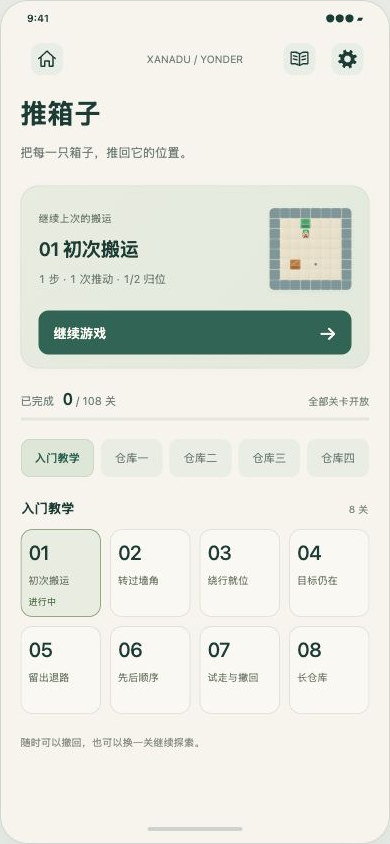
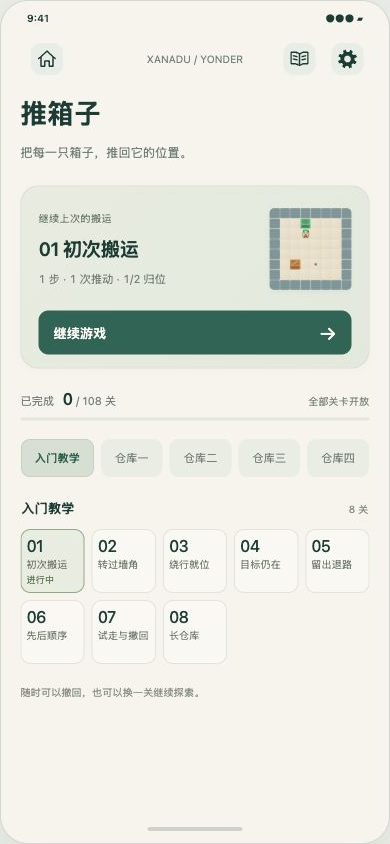
docs: compact sokoban level selection buttons

diff --git a/docs/prototypes/sokoban/style.css b/docs/prototypes/sokoban/style.css
@@ -1,4 +1,4 @@
 :root{font-family:-apple-system,BlinkMacSystemFont,"PingFang SC","Microsoft YaHei",sans-serif;color:#173d35;background:#e9ece5;font-synthesis:none}*{box-sizing:border-box}body{margin:0}button{font:inherit;cursor:pointer;color:inherit;border:0;touch-action:manipulation}button:focus-visible{outline:3px solid #c18c3e;outline-offset:3px}button:disabled{opacity:.35;cursor:default}button:hover:not(:disabled){filter:brightness(.97)}[hidden]{display:none!important}.preview{max-width:780px;margin:auto;padding:36px 28px 24px}.preview-header{display:flex;justify-content:space-between;align-items:center;gap:20px}.eyebrow{font-size:10px;font-weight:700;letter-spacing:2px;margin:0 0 10px;color:#6f8175}.preview h1{font-size:24px;font-weight:600;margin:0;letter-spacing:-.3px}.prototype-tag{white-space:nowrap;border:1px solid #cbd4c9;border-radius:20px;padding:9px 12px;font-size:11px}.preview-controls{display:flex;justify-content:center;margin:26px 0 22px}.segmented{display:flex;padding:4px;background:#dce3d9;border-radius:12px;gap:3px}.segmented button{background:transparent;border-radius:8px;min-height:44px;padding:0 15px;font-size:12px}.segmented button[aria-pressed=true]{background:#f9f8f1;box-shadow:0 1px 5px #173d3510}.phone{height:844px;width:390px;max-width:100%;margin:auto;border:1px solid #d4d8c9;border-radius:28px;box-shadow:0 14px 35px #173d3512;background:#f6f4ec;overflow:hidden;display:flex;flex-direction:column;position:relative;container-type:inline-size}.safe-top{height:30px;flex-shrink:0;display:flex;align-items:center;justify-content:space-between;padding:4px 26px 0;font-size:10px;font-weight:600}.nav{height:63px;position:relative;flex-shrink:0}.nav-button{position:absolute;top:6px;width:44px;height:44px;padding:6px;background:transparent;display:flex;align-items:center;justify-content:center}.nav-button>span{display:flex;align-items:center;justify-content:center;width:32px;height:32px;border-radius:10px;background:#e7ede4}.nav-button svg{width:20px;height:20px}.nav-button.home{left:calc(7.778% - 6px)}.nav-button.book{right:calc(5% + 48px)}.nav-button.settings{right:5%}.nav-brand{position:absolute;left:50%;top:12px;transform:translateX(-50%);white-space:nowrap;font-size:10.3px;font-weight:400;line-height:32px;color:#718179}.game-heading{padding:0 19.5px 9px;flex-shrink:0}.game-heading h2{font-size:26.5px;line-height:1.45;font-weight:700;letter-spacing:0;margin:0}.game-page{display:flex;flex-direction:column;flex:1;min-height:0}.game-info{display:flex;align-items:center;gap:12px;margin:0 19.5px 8px;min-height:45px;flex-shrink:0;border-bottom:1px solid #dce2d6;font-size:10px;color:#718179;white-space:nowrap}.level-link{min-height:44px;padding:0;display:flex;align-items:center;gap:6px;background:transparent;color:#173d35;font-size:12px;margin-right:auto;min-width:0;flex:1}.level-link [data-label=level]{overflow:hidden;text-overflow:ellipsis;white-space:nowrap}.stat,.chevron{flex-shrink:0}.chevron{width:5px;height:5px;border-right:1.3px solid currentColor;border-bottom:1.3px solid currentColor;transform:rotate(45deg);margin-top:-3px}.stat b{font-weight:500;font-size:14px;font-variant-numeric:tabular-nums;color:#173d35}.board-area{margin:0 19.5px;flex:1;min-height:0;position:relative;overflow:hidden;user-select:none;border-radius:15px;background:#ebeee2;box-shadow:inset 0 0 0 1px #dce2d687}.board{display:grid;position:absolute;left:50%;top:50%;transform:translate(-50%,-50%);background:#e9e0ca;overflow:hidden;border-radius:5px}.tile{position:relative;background:#e8ddc4;overflow:visible}.tile.floor{box-shadow:inset 0 0 0 .5px #bcae8a27;background:linear-gradient(145deg,#eee5d0,#e4dac2)}.tile img{position:absolute;inset:0;width:100%;height:100%;object-fit:contain;pointer-events:none}.tile.goal:after{content:"";position:absolute;width:24%;height:24%;left:38%;top:38%;border-radius:4px;transform:rotate(45deg);background:#789667;box-shadow:0 0 0 3px #8fa57c27}.tile.occupied:after{display:none}.tile .crate{z-index:2}.tile .player{z-index:3;transform:scale(.91)}.tile.occupied .crate{filter:saturate(.7)}.tile .goal-check{position:absolute;right:5%;bottom:3%;font-size:13px;line-height:1;z-index:4;color:white;background:#276653;border-radius:50%;padding:1px 2px}.board-toast{position:absolute;bottom:16px;left:50%;transform:translateX(-50%);width:max-content;max-width:calc(100% - 20px);padding:10px 14px;border-radius:12px;background:#173d35ed;color:#fffdf4;font-size:12px;line-height:1.6;pointer-events:none;z-index:5;display:none;text-align:center}.board-toast.visible{display:block}.operation-zone{display:grid;grid-template-columns:minmax(120px,1fr) 152px;gap:16px;margin:16px 19.5px 0;align-items:start;flex-shrink:0;height:152px}.left-controls{max-width:166px;height:152px}.game-actions{display:grid;grid-template-rows:48px 48px;gap:8px;padding-top:24px}.game-actions button{min-height:48px;border-radius:12px;background:#e7ede4;font-size:12px;display:flex;align-items:center;justify-content:center;gap:9px;padding:0 12px}.game-actions button>span:first-child{width:22px;height:22px;display:flex}.game-actions svg{width:22px;height:22px}.dpad{position:relative;width:152px;height:152px}.dpad button{position:absolute;display:flex;align-items:center;justify-content:center;background:#e7ede4;border-radius:13px;width:48px;height:48px;padding:0}.dpad [data-move=up]{left:52px;top:24px}.dpad [data-move=left]{left:0;top:52px}.dpad [data-move=right]{left:104px;top:52px}.dpad [data-move=down]{left:52px;top:80px}.arrow{width:11px;height:11px;border-top:2px solid #276653;border-right:2px solid #276653;display:block}.arrow.up{transform:rotate(-45deg);margin-top:4px}.arrow.right{transform:rotate(45deg);margin-right:4px}.arrow.down{transform:rotate(135deg);margin-bottom:4px}.arrow.left{transform:rotate(-135deg);margin-left:4px}.safe-bottom{height:28px;display:flex;align-items:center;justify-content:center;flex-shrink:0}.safe-bottom>span{display:block;width:95px;height:4px;border-radius:5px;background:#173d352f}
-.entry-page{flex:1;min-height:0;overflow-y:auto;overscroll-behavior:contain;padding:0 19.5px 12px;scrollbar-width:none}.entry-page::-webkit-scrollbar{display:none}.entry-intro{font-size:12px;color:#718179;line-height:1.8;margin:0 0 22px}.continue-card{display:block;width:100%;padding:17px 17px 13px;text-align:left;border:1px solid #d7dfcf;border-radius:18px;background:linear-gradient(130deg,#e8eddf,#e2e9dc);box-shadow:0 3px 12px #173d3504}.continue-content{display:flex;align-items:center;justify-content:space-between;gap:14px;min-height:91px}.continue-copy{display:flex;flex-direction:column;min-width:0}.card-eyebrow{font-size:10px;color:#6d806b;margin-bottom:10px;letter-spacing:.3px}.continue-copy strong{font-size:19px;font-weight:600;letter-spacing:-.4px;line-height:1.4;overflow:hidden;text-overflow:ellipsis;white-space:nowrap}.continue-stats{font-size:11px;color:#718179;margin-top:9px;font-variant-numeric:tabular-nums}.continue-cta{display:flex;align-items:center;justify-content:space-between;margin-top:16px;border-radius:10px;background:#276653;color:#fffdf4;height:44px;padding:0 15px;font-size:13px;font-weight:500}.continue-cta>span:last-child{font-size:20px;font-weight:400}.mini-board{display:grid;width:82px;height:82px;flex-shrink:0;border-radius:5px;overflow:hidden;box-shadow:0 2px 4px #173d350c}.mini-board .tile.goal:after{box-shadow:none;border-radius:1px}.mini-board .goal-check{display:none}.entry-progress{margin:21px 0 18px}.entry-progress>div:first-child{display:flex;align-items:baseline;justify-content:space-between;font-size:11px;color:#718179}.entry-progress b{color:#173d35;font-size:16px;font-weight:600;margin-left:5px}.progress-total{font-size:11px;color:#718179}.open-note{font-size:10px;color:#82907c}.progress-track{margin-top:9px;height:3px;border-radius:5px;background:#e1e6da;overflow:hidden}.progress-track>span{display:block;height:100%;width:0;background:#7b9d72;border-radius:5px}.chapter-tabs{display:flex;gap:7px;overflow-x:auto;scrollbar-width:none;white-space:nowrap;padding-bottom:2px}.chapter-tabs::-webkit-scrollbar{display:none}.chapter-tabs button{flex-shrink:0;background:#e9ede3;color:#718179;border:1px solid transparent;border-radius:9px;font-size:11px;padding:0 13px;min-height:38px}.chapter-tabs button[aria-selected=true]{color:#276653;background:#dce7d6;border-color:#cadac4;font-weight:600}.chapter-heading{display:flex;justify-content:space-between;align-items:baseline;margin:20px 1px 12px}.chapter-heading h3{font-size:13px;font-weight:600;margin:0}.chapter-heading>span{font-size:10px;color:#87917f}.level-grid{display:grid;grid-template-columns:repeat(4,minmax(0,1fr));gap:9px}.level-card{position:relative;min-width:0;height:88px;border-radius:12px;background:#f9f8f2;border:1px solid #e0e5d8;padding:11px 7px 8px;text-align:left;display:flex;flex-direction:column;justify-content:space-between}.level-card.is-active{border-color:#90aa82;background:#e8eddf}.level-card.is-complete{background:#eef2e8}.level-number{font-size:20px;font-weight:500;line-height:1.15;letter-spacing:-.5px}.level-name{display:block;font-size:10px;color:#75816e;white-space:nowrap;overflow:hidden;text-overflow:ellipsis}.level-state{font-size:9px;color:#52764b;height:12px;line-height:12px}.completed-check{position:absolute;top:10px;right:9px;font-size:10px;color:#638356}.entry-footnote{font-size:10px;color:#8b9485;margin:19px 0 2px;line-height:1.8}.catalog-notice{font-size:11px;line-height:1.7;color:#a16a44}.preview-state{max-width:390px;margin:17px auto 0;display:flex;align-items:center;justify-content:space-between;gap:14px;color:#7a877a;font-size:10px}.preview-state button{background:transparent;padding:6px 0;text-decoration:underline;text-underline-offset:4px;font-size:10px;flex-shrink:0}.preview-state>span{line-height:1.7}.preview footer{font-size:10px;color:#7a877a;text-align:center;margin:14px 0 0;line-height:1.7}.sr-only{position:absolute;width:1px;height:1px;padding:0;margin:-1px;overflow:hidden;clip:rect(0,0,0,0);white-space:nowrap;border:0}
-dialog{border:1px solid #d4d8c9;background:#f6f4ec;color:#173d35;border-radius:22px;padding:28px;max-width:360px;width:calc(100% - 32px);box-shadow:0 24px 80px #173d3545;max-height:calc(100dvh - 64px);overflow-y:auto}dialog.level-dialog{max-width:320px;padding:24px}.modal-close{position:absolute;right:9px;top:8px;width:44px;height:44px;background:transparent;font-size:25px}dialog::backdrop{background:#18352c66}dialog h2{font-size:22px;margin:8px 0 20px;font-weight:600}dialog p{font-size:13px;line-height:1.9;color:#64756b}dialog .fine{font-size:11px;color:#7b887d}.modal-chapters{margin:0 0 10px}.modal-chapters button{min-height:34px;padding:0 10px;font-size:10px}.modal-level-list{max-height:360px;overflow-y:auto;overscroll-behavior:contain;scrollbar-width:thin;scrollbar-color:#ccd8c2 transparent}.level-option{display:flex;align-items:center;justify-content:space-between;gap:8px;width:100%;text-align:left;background:#e7ede4;margin:8px 0;padding:13px 12px;border-radius:11px;min-height:52px}.level-option strong{font-size:12px;font-weight:500;display:block}.level-option small{display:block;font-size:10px;margin-top:5px;color:#75816f}.level-option .completed-label{font-size:10px;color:#52764b;white-space:nowrap}.level-option.is-active{box-shadow:inset 0 0 0 1px #9ab08f}.modal-links{display:flex;justify-content:space-between;align-items:center;margin-top:15px;border-top:1px solid #dde3d5;padding-top:11px}.modal-links button{background:none;padding:6px 0;font-size:11px;color:#52764b}.modal-links span{font-size:10px;color:#87917f}.confirm{min-height:44px;background:#276653;color:#fffdf4;border-radius:11px;width:100%;margin:12px 0 0;font-size:13px}.secondary-confirm{background:#e7ede4;color:#173d35;margin-top:8px}.modal-hint{padding:12px;background:#e7ede4;border-radius:12px}
-@container(max-width:350px){.operation-zone{margin-inline:12px;gap:12px}.game-info{gap:7px;margin-inline:14px;font-size:9px}.level-link{font-size:11px;gap:4px}.stat b{font-size:13px}.nav-brand{font-size:9px}.entry-page{padding-inline:16px}.continue-card{padding:14px}.continue-copy strong{font-size:17px}.mini-board{width:70px;height:70px}.level-grid{gap:7px}.level-card{padding-inline:6px}.continue-cta{margin-top:13px}.entry-intro{font-size:11px}}@media(max-width:600px){.preview{padding:24px 16px}.preview-header{display:block}.preview h1{font-size:22px}.prototype-tag{display:inline-block;margin-top:14px}.segmented button{padding:0 12px}.preview-controls{margin:22px 0}.preview footer{font-size:9px}}@media(prefers-reduced-motion:no-preference){.game-actions button:active,.dpad button:active,.level-card:active{transform:translateY(1px)}.continue-cta{transition:background .15s}.continue-card:hover .continue-cta{background:#225b49}}
+.entry-page{flex:1;min-height:0;overflow-y:auto;overscroll-behavior:contain;padding:0 19.5px 12px;scrollbar-width:none}.entry-page::-webkit-scrollbar{display:none}.entry-intro{font-size:12px;color:#718179;line-height:1.8;margin:0 0 22px}.continue-card{display:block;width:100%;padding:17px 17px 13px;text-align:left;border:1px solid #d7dfcf;border-radius:18px;background:linear-gradient(130deg,#e8eddf,#e2e9dc);box-shadow:0 3px 12px #173d3504}.continue-content{display:flex;align-items:center;justify-content:space-between;gap:14px;min-height:91px}.continue-copy{display:flex;flex-direction:column;min-width:0}.card-eyebrow{font-size:10px;color:#6d806b;margin-bottom:10px;letter-spacing:.3px}.continue-copy strong{font-size:19px;font-weight:600;letter-spacing:-.4px;line-height:1.4;overflow:hidden;text-overflow:ellipsis;white-space:nowrap}.continue-stats{font-size:11px;color:#718179;margin-top:9px;font-variant-numeric:tabular-nums}.continue-cta{display:flex;align-items:center;justify-content:space-between;margin-top:16px;border-radius:10px;background:#276653;color:#fffdf4;height:44px;padding:0 15px;font-size:13px;font-weight:500}.continue-cta>span:last-child{font-size:20px;font-weight:400}.mini-board{display:grid;width:82px;height:82px;flex-shrink:0;border-radius:5px;overflow:hidden;box-shadow:0 2px 4px #173d350c}.mini-board .tile.goal:after{box-shadow:none;border-radius:1px}.mini-board .goal-check{display:none}.entry-progress{margin:21px 0 18px}.entry-progress>div:first-child{display:flex;align-items:baseline;justify-content:space-between;font-size:11px;color:#718179}.entry-progress b{color:#173d35;font-size:16px;font-weight:600;margin-left:5px}.progress-total{font-size:11px;color:#718179}.open-note{font-size:10px;color:#82907c}.progress-track{margin-top:9px;height:3px;border-radius:5px;background:#e1e6da;overflow:hidden}.progress-track>span{display:block;height:100%;width:0;background:#7b9d72;border-radius:5px}.chapter-tabs{display:flex;gap:7px;overflow-x:auto;scrollbar-width:none;white-space:nowrap;padding-bottom:2px}.chapter-tabs::-webkit-scrollbar{display:none}.chapter-tabs button{flex-shrink:0;background:#e9ede3;color:#718179;border:1px solid transparent;border-radius:9px;font-size:11px;padding:0 13px;min-height:38px}.chapter-tabs button[aria-selected=true]{color:#276653;background:#dce7d6;border-color:#cadac4;font-weight:600}.chapter-heading{display:flex;justify-content:space-between;align-items:baseline;margin:20px 1px 12px}.chapter-heading h3{font-size:13px;font-weight:600;margin:0}.chapter-heading>span{font-size:10px;color:#87917f}.level-grid{display:grid;grid-template-columns:repeat(5,minmax(0,1fr));gap:7px}.level-card{position:relative;min-width:0;height:64px;border-radius:10px;background:#f9f8f2;border:1px solid #e0e5d8;padding:7px 5px 6px;text-align:left;display:flex;flex-direction:column;justify-content:space-between}.level-card.is-active{border-color:#90aa82;background:#e8eddf}.level-card.is-complete{background:#eef2e8}.level-number{font-size:16px;font-weight:500;line-height:1.15;letter-spacing:-.5px}.level-name{display:block;font-size:10px;color:#75816e;white-space:nowrap;overflow:hidden;text-overflow:ellipsis}.level-state{font-size:9px;color:#52764b;height:12px;line-height:12px}.completed-check{position:absolute;top:7px;right:6px;font-size:10px;color:#638356}.entry-footnote{font-size:10px;color:#8b9485;margin:19px 0 2px;line-height:1.8}.catalog-notice{font-size:11px;line-height:1.7;color:#a16a44}.preview-state{max-width:390px;margin:17px auto 0;display:flex;align-items:center;justify-content:space-between;gap:14px;color:#7a877a;font-size:10px}.preview-state button{background:transparent;padding:6px 0;text-decoration:underline;text-underline-offset:4px;font-size:10px;flex-shrink:0}.preview-state>span{line-height:1.7}.preview footer{font-size:10px;color:#7a877a;text-align:center;margin:14px 0 0;line-height:1.7}.sr-only{position:absolute;width:1px;height:1px;padding:0;margin:-1px;overflow:hidden;clip:rect(0,0,0,0);white-space:nowrap;border:0}
+dialog{border:1px solid #d4d8c9;background:#f6f4ec;color:#173d35;border-radius:22px;padding:28px;max-width:360px;width:calc(100% - 32px);box-shadow:0 24px 80px #173d3545;max-height:calc(100dvh - 64px);overflow-y:auto}dialog.level-dialog{max-width:320px;padding:24px}.modal-close{position:absolute;right:9px;top:8px;width:44px;height:44px;background:transparent;font-size:25px}dialog::backdrop{background:#18352c66}dialog h2{font-size:22px;margin:8px 0 20px;font-weight:600}dialog p{font-size:13px;line-height:1.9;color:#64756b}dialog .fine{font-size:11px;color:#7b887d}.modal-chapters{margin:0 0 10px}.modal-chapters button{min-height:34px;padding:0 10px;font-size:10px}.modal-level-list{max-height:360px;overflow-y:auto;overscroll-behavior:contain;scrollbar-width:thin;scrollbar-color:#ccd8c2 transparent}.level-option{display:flex;align-items:center;justify-content:space-between;gap:8px;width:100%;text-align:left;background:#e7ede4;margin:6px 0;padding:8px 10px;border-radius:9px;min-height:44px}.level-option strong{font-size:12px;font-weight:500;display:block}.level-option small{display:block;font-size:10px;margin-top:5px;color:#75816f}.level-option .completed-label{font-size:10px;color:#52764b;white-space:nowrap}.level-option.is-active{box-shadow:inset 0 0 0 1px #9ab08f}.modal-links{display:flex;justify-content:space-between;align-items:center;margin-top:15px;border-top:1px solid #dde3d5;padding-top:11px}.modal-links button{background:none;padding:6px 0;font-size:11px;color:#52764b}.modal-links span{font-size:10px;color:#87917f}.confirm{min-height:44px;background:#276653;color:#fffdf4;border-radius:11px;width:100%;margin:12px 0 0;font-size:13px}.secondary-confirm{background:#e7ede4;color:#173d35;margin-top:8px}.modal-hint{padding:12px;background:#e7ede4;border-radius:12px}
+@container(max-width:350px){.operation-zone{margin-inline:12px;gap:12px}.game-info{gap:7px;margin-inline:14px;font-size:9px}.level-link{font-size:11px;gap:4px}.stat b{font-size:13px}.nav-brand{font-size:9px}.entry-page{padding-inline:16px}.continue-card{padding:14px}.continue-copy strong{font-size:17px}.mini-board{width:70px;height:70px}.level-grid{grid-template-columns:repeat(4,minmax(0,1fr));gap:7px}.level-card{padding-inline:6px}.continue-cta{margin-top:13px}.entry-intro{font-size:11px}}@media(max-width:600px){.preview{padding:24px 16px}.preview-header{display:block}.preview h1{font-size:22px}.prototype-tag{display:inline-block;margin-top:14px}.segmented button{padding:0 12px}.preview-controls{margin:22px 0}.preview footer{font-size:9px}}@media(prefers-reduced-motion:no-preference){.game-actions button:active,.dpad button:active,.level-card:active{transform:translateY(1px)}.continue-cta{transition:background .15s}.continue-card:hover .continue-cta{background:#225b49}}

diff --git a/docs/prototypes/sokoban/README.md b/docs/prototypes/sokoban/README.md
@@ -15,6 +15,7 @@ python3 -m http.server 8765 --bind 127.0.0.1
 - 默认先展示入口页，保留 Home、居中品牌、Book、Settings 和统一标题。首屏主卡片显示当前关卡的小棋盘、真实演示步数、推动数和归位数，点击「继续游戏」回到同一局及其撤回历史。
 - 初始状态为第一关合法向上推动一次：1 步、1 次推动、1/2 归位。这是明确标注的演示进度，不冒充玩家存档；当前完成数为真实的 0/108。
 - 六个章节与 108 个关卡都来自实际发布目录。章节标签可横向滚动，关卡网格可纵向滚动；普通关卡卡片点击一次即可开始，点击当前活动关卡继续原局。切换关卡仅替换本页内存中的活动尝试。
+- 选关卡片收紧为 64 CSS px 高、16 px 编号，常规宽度每行 5 个，容器不超过 350 px 时每行 4 个；保留关卡名和状态。弹层普通选关行高 44 px，有进度的行随内容增高。已检查教学长名称、三位关卡编号和窄屏文字无截断、无横向溢出。
 - 页外提供「关卡入口 / 游戏页面 / 高地图」三种评审入口。「查看首次游玩状态」清空本次演示，展示「从第 1 关开始」；也可使用 `?state=new` 直接打开该状态。`#game`、`#tall` 可直接预览相应游戏页。
 - 游戏页保留单行关卡与计数，棋盘使用淡绿纸色圆角背景，内部预留 12 CSS px。地图只做完整自动适配，没有缩放按钮、倍率、拖动平移或棋盘手势。
 - 左侧撤回和重来各占一行，48 CSS px 高。操作区内撤回与向上键均位于 `y=24`，重来与向下键均位于 `y=80`；左右键仍位于原来的 `y=52`、`x=0/104`。已删除方向盘中心圆点。
